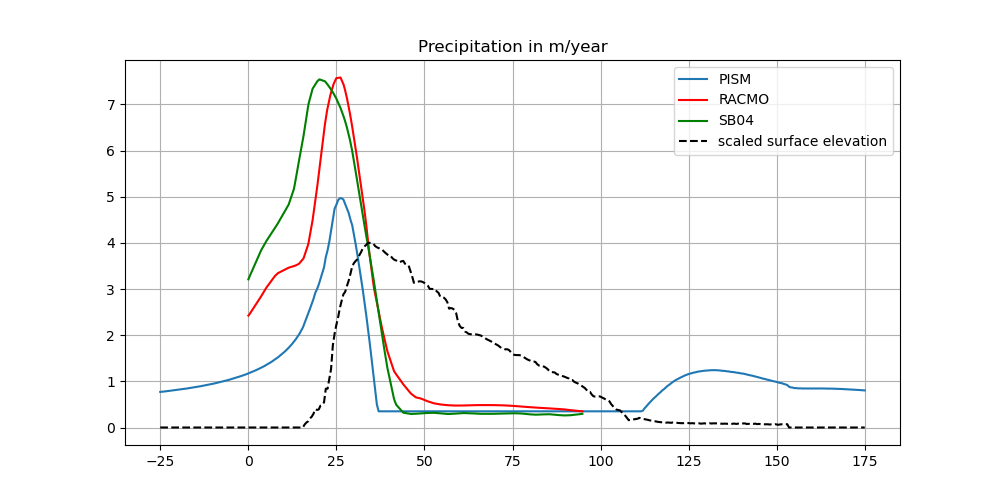
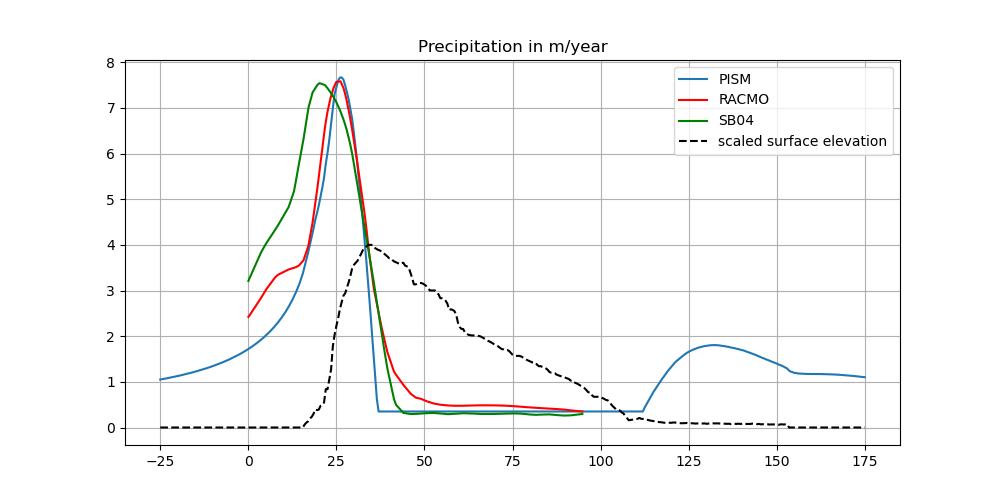
Mostly playing around with the setup:
- changed position of flowline
- changed some parameters
- improved animation script

Changed region(s): [[0.093, 0.15, 0.899, 0.84], [0.651, 0.84, 0.868, 0.87]]

diff --git a/animate.py b/animate.py
@@ -21,9 +21,12 @@ def update(ax, data, index):
 
     ax[0].cla()
     ax[1].cla()
-    ax_b.cla()
+    ax[2].cla()
+    # ax_b.cla()
 
-    speed = data.variables["velsurf_mag"][index, 1, :]
+    p = data.variables["effective_precipitation"][index, 1, :] / 1000
+    surface_speed = data.variables["velsurf_mag"][index, 1, :]
+    basal_speed = data.variables["velbase_mag"][index, 1, :]
     bmelt = data.variables["bmelt"][index, 1, :]
     topg = data.variables["topg"][index, 1, :]
     usurf = data.variables["usurf"][index, 1, :]
@@ -31,19 +34,25 @@ def update(ax, data, index):
     surface = np.ma.array(data=usurf, mask=(thk < 1))
     basal_topography = np.ma.array(data=(usurf-thk), mask=(thk < 1))
     basal_melt = np.ma.array(data=-bmelt, mask=(thk < 1))
-    speed = np.ma.array(data=speed, mask=(thk < 10))
-    ax[0].plot(x, speed, label="Speed (m/yr)")
-    ax_b.plot(x, basal_melt, color="k", label="Basal melt")
+    surface_speed = np.ma.array(data=surface_speed, mask=(thk < 10))
+    basal_speed = np.ma.array(data=basal_speed, mask=(thk < 10))
+    ax[0].plot(x, surface_speed, color="#e41a1c",label="Surface peed (m/yr)")
+    ax[0].plot(x, basal_speed, color="#377eb8",label="Basal Speed (m/yr)")
+    # ax_b.plot(x, basal_melt, color="k", label="Basal melt")
+    ax[1].plot(x, basal_topography, label="Ice bottom")
     ax[1].plot(x, topg, label="Bed")
-    ax[1].plot(x, surface, label="surface")
-    ax[1].plot(x, basal_topography, label="ice bottom")
-    ax[0].set_ylim(ymin=0, ymax=500)
+    ax[1].plot(x, surface, label="Ice surface")
+    ax[0].set_ylim(ymin=0, ymax=1000)
     ax[1].set_ylim(ymin=-750, ymax=2200)
-    ax[0].set_ylabel("Speed (m/r)")
-    ax_b.set_ylabel("Melt rate (m/r)")
+    ax[0].set_ylabel("Speed (m/yr)")
+    # ax_b.set_ylabel("Melt rate (m/yr)")
     ax[1].set_ylabel("Elevation (m)")
+    ax[0].legend()
     ax[1].legend()
-
+    ax[2].plot(x, p)
+    ax[2].set_ylim(0, 10)
+    ax[2].set_xlabel("Distance (km)")
+    ax[2].set_ylabel("Precipitation (m/yr)")
     ax[0].set_title(f"Time: {t / year}")
 
 
@@ -62,14 +71,14 @@ if __name__ == "__main__":
     writer = FFMpegWriter(fps=15, metadata={"title" : "Flowline run"})
 
     fig, ax = plt.subplots(
-        2,
+        3,
         1,
         sharex="col",
-        figsize=[6.2, 4.0],
+        figsize=[6.2, 6.0],
         clear=True,
     )
     fig.subplots_adjust(wspace=0.025)
-    ax_b = ax[0].twinx()
+    # ax_b = ax[0].twinx()
 
     with writer.saving(fig, outfile, 100):
         for i in range(N):

diff --git a/preprocess.py b/preprocess.py
@@ -61,10 +61,11 @@ def synthetic_geometry(grid):
 grid = flowline.grid(-25e3, 175e3, dx=500)
 
 real = real_geometry(grid)
+real.dump("real_geometry.nc")
 
 synth = synthetic_geometry(grid)
 
-synth.dump("geometry.nc")
+synth.dump("synth_geometry.nc")
 
 # Plot real and synthetic geometry
 
@@ -155,7 +156,7 @@ out = PISM.util.prepare_output("ocean.nc")
 
 x_s = 35e3
 
-TH_e = -2.0
+TH_e = -2.2
 TH_w = 0.23
 TH = PISM.IceModelVec2S(grid, "theta_ocean", PISM.WITHOUT_GHOSTS)
 TH.set(TH_w)

diff --git a/flowline.py b/flowline.py
@@ -24,6 +24,7 @@ def bump(x, x0=0, zmin_l=-300, zmin_r=50, zmax=2000, sigma_l=10e3, sigma_r=25e3)
 
     return ((x <= x0) * left + (x > x0) * right)
 
+
 def grid(x_min, x_max, dx):
     "Allocate a flow-line grid."
     dy = dx
